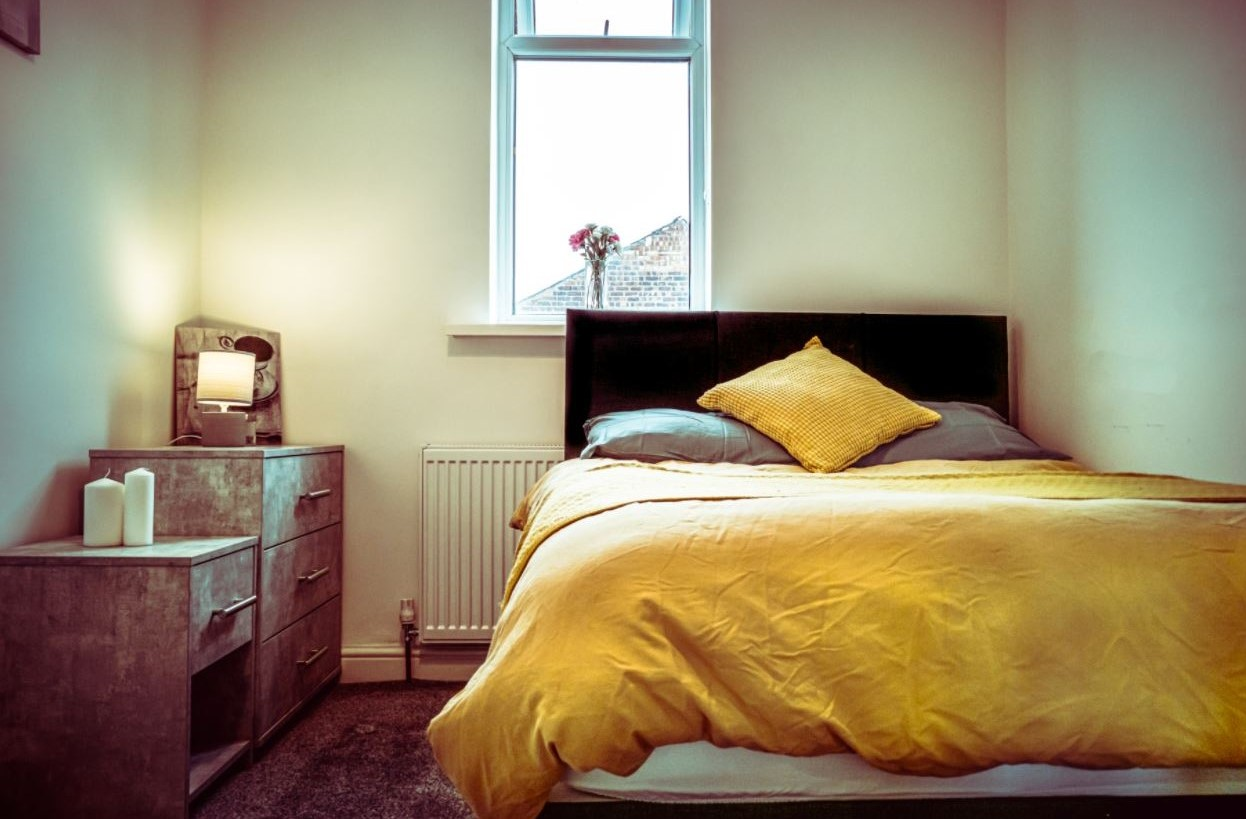
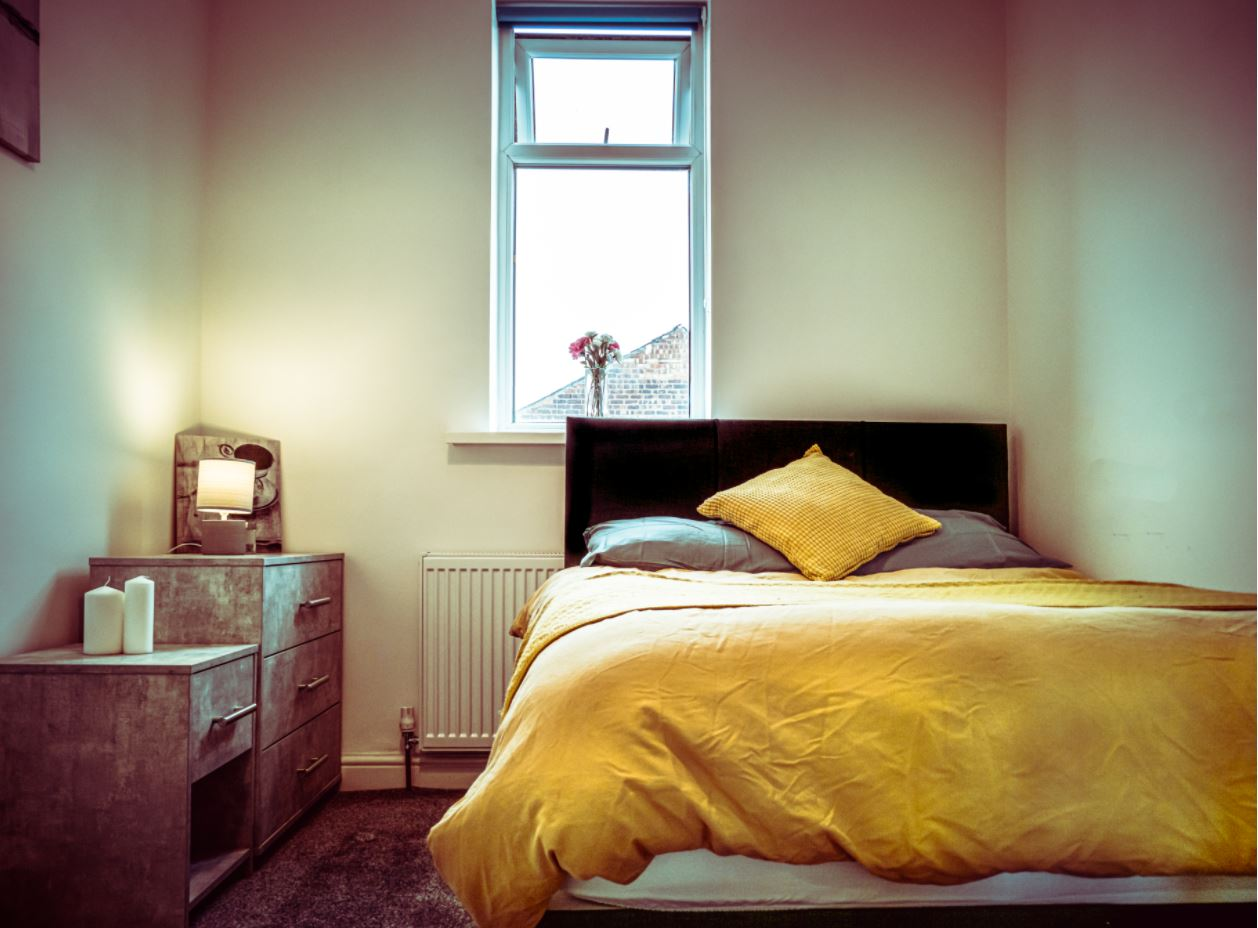
change to property image sizes

diff --git a/projects.html b/projects.html
@@ -142,7 +142,7 @@
           </div>
       <div class="carousel-item">
         <div class="col-xs-3 col-sm-3 col-md-3 slide-image">
-          <img src="img/bedroomImage.JPG">
+          <img src="img/bedroomImage2.JPG">
         </div>    
         <div class="col-xs-3 col-sm-3 col-md-3 slide-image">
           <img src="img/bathroom2.JPG">
